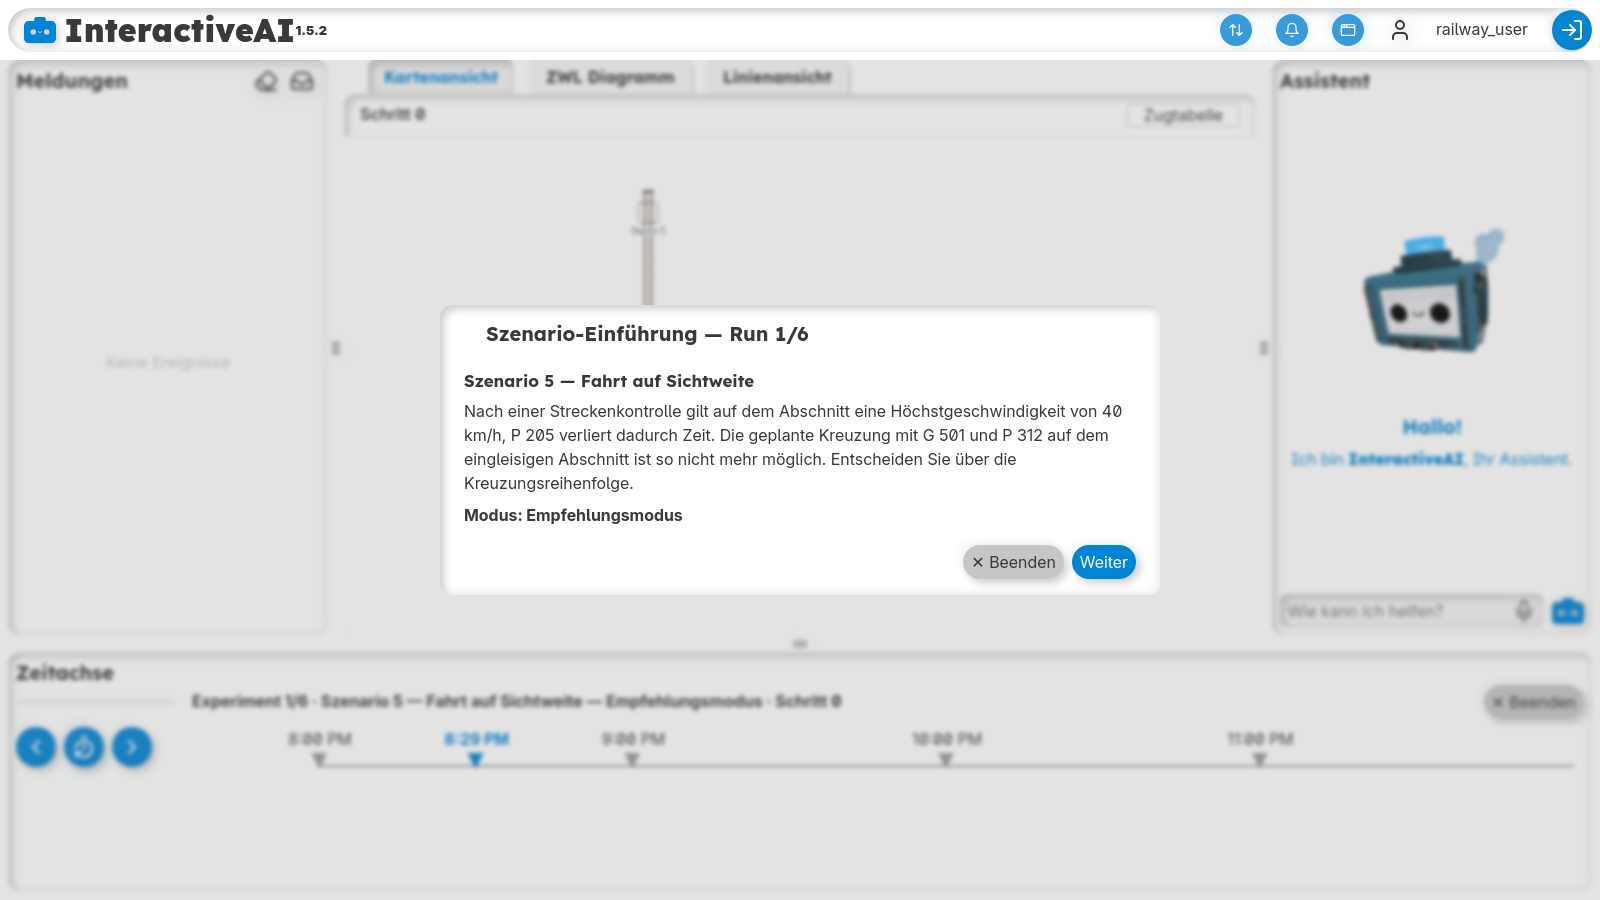
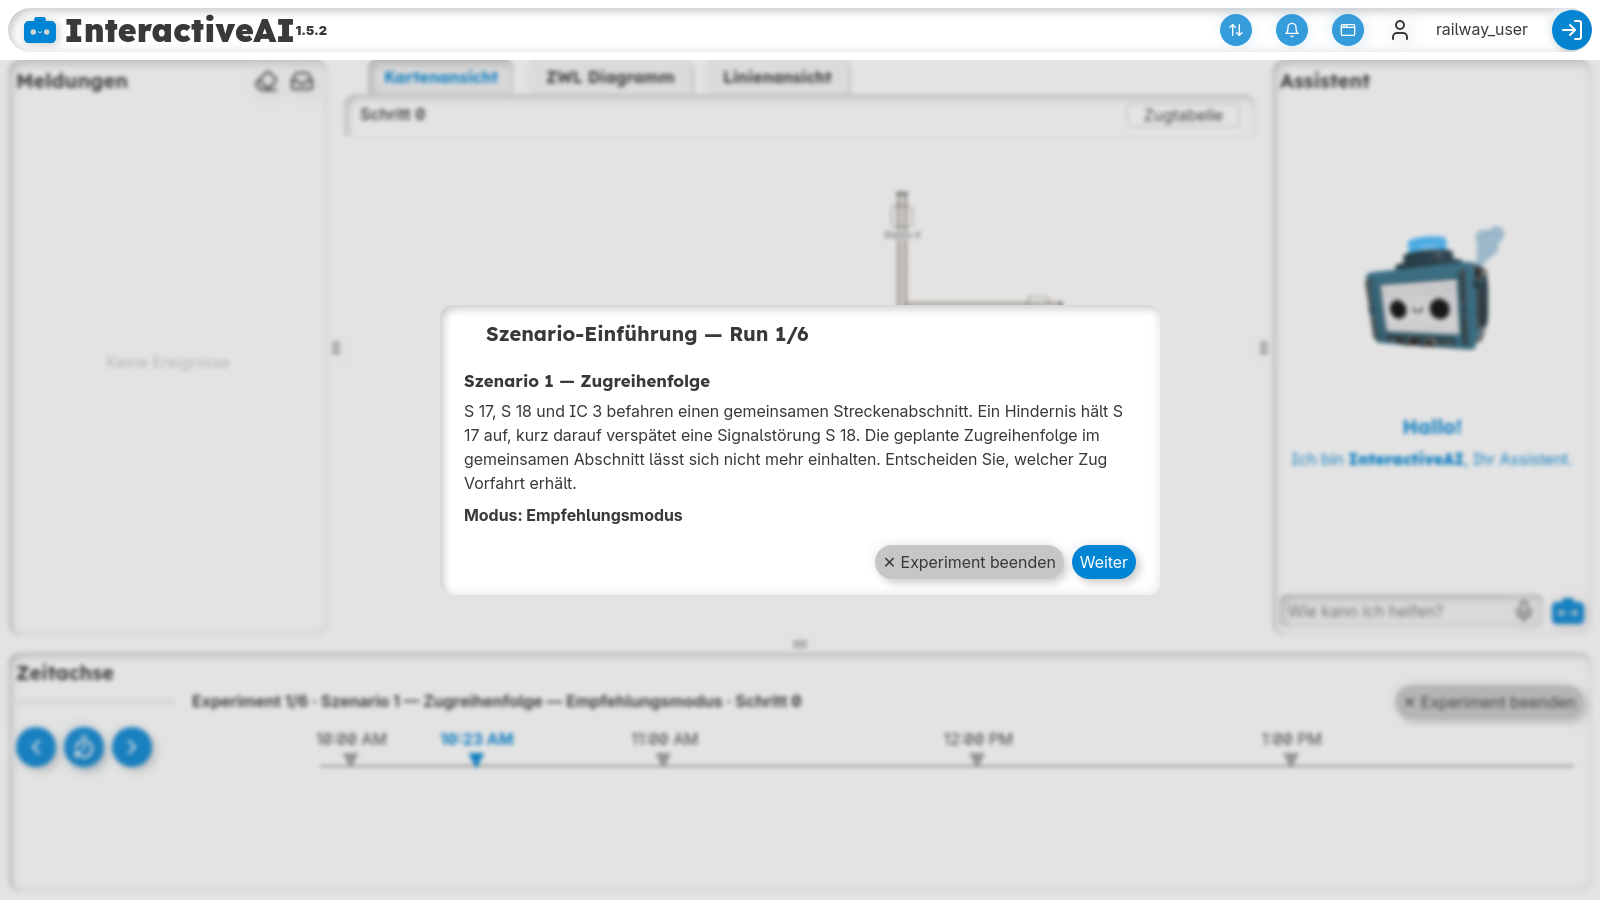
docs(plans): record the commits of S24 to S27 and refresh the introduction shot

diff --git a/docs/plans/railway-use-case.md b/docs/plans/railway-use-case.md
@@ -48,7 +48,9 @@ run and screenshotted without Docker.
   15 taken in the sandbox (Xvfb from conda-forge). Finding 7 (Werkzeug pin) fixed in S26
   (`b490b9c`); finding 6 (end the scenario or the Experiment) implemented as S25, shot 17. Open:
   finding 8 (S27, the consent dialog in two languages and a flaky click in the Cypress login),
-  analysed and decided as Q32 c), with a declared exception for two shared files.
+  analysed and decided as Q32 c), with a declared exception for two shared files. S24, S25, S26
+  and S27 committed (`43f9dff`, `2ffa188`, `b490b9c`, `9a68f92`); shot `10-intro` refreshed
+  ("✕ Experiment beenden"); the other shots of 00–14 show no changed view. Left: S23 (Q30).
 - **Base:** `main` at `600a1ce` (release 1.5.2).
 - **Inputs:**
   - the cleaned simulator: `railway_sim`'s simulator, cleaned and headless (Flatland
@@ -1741,10 +1743,10 @@ Each step adds its shots (§6) and commits them, and adds its new texts to Railw
 | S13 | - | The spec plays one scenario per mode from login to the end screen; all shots and the video refreshed; side-by-side comparison with `railway_sim.png` (remaining differences listed) in the Railway README; shot [`14-compare`](railway-use-case/shots/14-compare.png); all shots refreshed. | test | - | `test(railway): check the full run in both modes against the reference screenshot` | 4190e38 | T4 | S8–S12, S17 | - |
 | S14 | - | CI job; Cypress job only if fast enough. | ci | - | `ci(railway): run the simulator and Railway schema tests` | 6a4ee06 | T5, T6 | S1–S5 | - |
 | S15 | - | `Dockerfile`, compose (`restart: unless-stopped`, so the simulator runs from the deployment on, Q27 a), `RAILWAY_SIMU_UPSTREAM` on the server, `railway_user`'s perimeter in the seed files (no `loadTestConf.sh` after a restart; no participant users, Q11), ConfigMap location; README checklist with `deleteAllCards.sh` before a session; `README.md`, `frontend/README.md`, `docs/AIAgent_integration.md`-style references checked against D17. Done without the ConfigMap location and the server's `RAILWAY_SIMU_UPSTREAM` (S23). | feature | - | `feat(deploy): deploy the Railway simulator next to the platform` | c663b77 | D1, D10, D12, D13, D17, F27 | S4, S5 | - |
-| S24 | - | "Standalone-Modus" section with "Karte ansehen" in `ScenarioLoader.vue`'s start dialog, `standalone` in `loader.ts`, the geographic map in `Context.vue` while it is set, "Standalone-Modus · …" and "▶ Szenario-Loader" in `ScenarioProgress.vue` (Q31 d); 5 texts × 3 locales; `CHANGELOG.md`; a test switches to standalone mode, posts today's event and context and goes back; shot [`15-standalone`](railway-use-case/shots/15-standalone.png). | feature | - | `feat(railway): open the geographic map for an external simulation from the Szenario-Loader` | | F40 | S12 | - |
-| S25 | 6 | Experiment only: the progress bar's "✕ Beenden" becomes "✕ Experiment beenden" (so does the introductions' button), next to it "⏭ Szenario beenden" (while a run goes on, disabled until the next context) ends the current run early, and the start dialog shows the next introduction (the end screen after the last run). Simulator: `SessionRunner.end_run()` behind `POST /api/v1/session/end-run` marks the run `complete` (as `_on_complete()`, so `session.ended_at` after the last run) and posts the context; an open decision stays unanswered, its apply refused with 409 as any other; tests in `tests/test_integration.py`. Frontend: `endRun()` in `api.ts` + Vitest, both buttons in `ScenarioProgress.vue`, 2 texts × 3 locales; a single run keeps "✕ Beenden"; `CHANGELOG.md`; a test ends run 1 early; shot [`17-end-run`](railway-use-case/shots/17-end-run.png). | feature | low | `feat(railway): end the current scenario or the whole Experiment from the progress bar` | | F23 | S12 | - |
+| S24 | - | "Standalone-Modus" section with "Karte ansehen" in `ScenarioLoader.vue`'s start dialog, `standalone` in `loader.ts`, the geographic map in `Context.vue` while it is set, "Standalone-Modus · …" and "▶ Szenario-Loader" in `ScenarioProgress.vue` (Q31 d); 5 texts × 3 locales; `CHANGELOG.md`; a test switches to standalone mode, posts today's event and context and goes back; shot [`15-standalone`](railway-use-case/shots/15-standalone.png). | feature | - | `feat(railway): open the geographic map for an external simulation from the Szenario-Loader` | 43f9dff | F40 | S12 | - |
+| S25 | 6 | Experiment only: the progress bar's "✕ Beenden" becomes "✕ Experiment beenden" (so does the introductions' button), next to it "⏭ Szenario beenden" (while a run goes on, disabled until the next context) ends the current run early, and the start dialog shows the next introduction (the end screen after the last run). Simulator: `SessionRunner.end_run()` behind `POST /api/v1/session/end-run` marks the run `complete` (as `_on_complete()`, so `session.ended_at` after the last run) and posts the context; an open decision stays unanswered, its apply refused with 409 as any other; tests in `tests/test_integration.py`. Frontend: `endRun()` in `api.ts` + Vitest, both buttons in `ScenarioProgress.vue`, 2 texts × 3 locales; a single run keeps "✕ Beenden"; `CHANGELOG.md`; a test ends run 1 early; shot [`17-end-run`](railway-use-case/shots/17-end-run.png). | feature | low | `feat(railway): end the current scenario or the whole Experiment from the progress bar` | 2ffa188 | F23 | S12 | - |
 | S26 | 7 | `Werkzeug<3` in `usecases_examples/Railway/requirements.txt`, next to `Flask==2.3.2`; the simulator's tests green on a fresh install. | fix | medium | `fix(railway): pin Werkzeug below 3 for the simulator's Flask 2.3` | b490b9c | T5 | S14 | - |
-| S27 | 8 | `Login.vue` passes the consent question as a live translation, `stores/app.ts`'s `Modal.data` accepts it (declared exception, Q32 c); `login()` in `railway.cy.ts` answers in the browser's language once one dialog is left; `CHANGELOG.md` "Fixed"; mockups [`iai_consent_q32_before.png`](railway-use-case/iai_consent_q32_before.png), [`iai_consent_q32_after.png`](railway-use-case/iai_consent_q32_after.png). | fix | low | `fix(railway): show the consent question in the language of its buttons` | | F1, T4 | S7, S16 | - |
+| S27 | 8 | `Login.vue` passes the consent question as a live translation, `stores/app.ts`'s `Modal.data` accepts it (declared exception, Q32 c); `login()` in `railway.cy.ts` answers in the browser's language once one dialog is left; `CHANGELOG.md` "Fixed"; mockups [`iai_consent_q32_before.png`](railway-use-case/iai_consent_q32_before.png), [`iai_consent_q32_after.png`](railway-use-case/iai_consent_q32_after.png). | fix | low | `fix(railway): show the consent question in the language of its buttons` | 9a68f92 | F1, T4 | S7, S16 | - |
 | S23 | - | The `/railway-simu/` location in the ConfigMap's nginx key (pushed with `apply-nginx-conf.sh` after the frontend pod with the new `start-webui.sh` runs) and `RAILWAY_SIMU_UPSTREAM` on the frontend pod in `values.ovh.yaml`. Left out of S15: without a resolvable upstream the frontend's nginx does not start. | feature | - | `feat(deploy): route /railway-simu/ to the Railway simulator on Kubernetes` | | D1, D12 | S15 | Q30 |
 
 ### Phase 6: decisions settled with others ✅
@@ -1902,9 +1904,9 @@ GitHub yet; "resolved" in Source marks threads resolved on GitHub.
 | ✅❌ | 3 | [PR comment](https://github.com/ainetus/InteractiveAI/pull/34#discussion_r4522513695) | decision | medium | `docs/plans/railway-use-case.md:2035` (Q6): double-check the decision with the `railway_sim` author. Fixed in 091b3cc (S20): Confirmed 2026-11-11: six runs as `railway_sim`'s Experiment (S20). | `docs(plans): record the confirmation of Q6` |
 | ✅❌ | 4 | [PR comment](https://github.com/ainetus/InteractiveAI/pull/34#discussion_r4522846116) | decision | medium | `docs/plans/railway-use-case.md:2171` (Q8): double-check the decision with the `railway_sim` author; the two levels (train, then action) are not clear yet. Fixed in 091b3cc (S21): Confirmed 2026-11-11 as a) (S21); §1.5.2 notes that only "Vorfahrt" leads to an option in all six scenarios, so the second level is in effect fixed. | `docs(plans): record the confirmation of Q8` |
 | ✅❌ | 5 | [PR comment](https://github.com/ainetus/InteractiveAI/pull/34#discussion_r4522858147) | decision | medium | `docs/plans/railway-use-case.md:2246` (Q10): to decide with SystemX (the platform maintainers). Fixed in 091b3cc (S22): Decided 2026-11-11 as proposed: the simulator in its own compose next to the platform, as PowerGrid's, plus the k8s values; Q24 follows (S22). | `docs(plans): record the deployment decision of Q10` |
-| | 6 | conversation 2026-11-12 | feature | low | `frontend/src/entities/Railway/CAB/ScenarioProgress.vue:32`: in the Experiment, "✕ Beenden" (bottom right) ends the whole session but does not say so; it should read "✕ Experiment beenden", and an "⏭ Szenario beenden" should end the current run and move on to the next scenario. The simulator's `next_run()` (`usecases_examples/Railway/integration/loop.py:87`) refuses while a run is not complete, so ending a run needs a route of its own (S25). | `feat(railway): end the current scenario or the whole Experiment from the progress bar` |
+| ✅ | 6 | conversation 2026-11-12 | feature | low | `frontend/src/entities/Railway/CAB/ScenarioProgress.vue:32`: in the Experiment, "✕ Beenden" (bottom right) ends the whole session but does not say so; it should read "✕ Experiment beenden", and an "⏭ Szenario beenden" should end the current run and move on to the next scenario. The simulator's `next_run()` (`usecases_examples/Railway/integration/loop.py:87`) refuses while a run is not complete, so ending a run needs a route of its own (S25). Fixed in 2ffa188 (S25): `POST /api/v1/session/end-run`, "Szenario beenden" and "✕ Experiment beenden"; shot `10-intro` refreshed with the new label. | `feat(railway): end the current scenario or the whole Experiment from the progress bar` |
 | ✅ | 7 | sandbox run 2026-11-12 | fix | medium | `usecases_examples/Railway/requirements.txt:5`: `Flask==2.3.2` without a Werkzeug pin; a fresh install (CI's `pip install -r requirements.txt`, `.github/workflows/railway-ci.yml:44`) gets Werkzeug 3.x, and Flask 2.3's test client fails (`module 'werkzeug' has no attribute '__version__'`) in the 4 route tests of `tests/test_integration.py`. Not seen yet: the branch's CI runs wait for approval. Fixed in b490b9c (S26): `Werkzeug<3`; 82 tests green. | `fix(railway): pin Werkzeug below 3 for the simulator's Flask 2.3` |
-| | 8 | sandbox run 2026-11-12 | bug | low | `frontend/src/views/Login.vue:45`, `frontend/cypress/e2e/railway.cy.ts:23`: in a German browser the consent dialog shows the English question under German buttons ("Nein"/"Ja"), and Cypress' `login()` sometimes clicks a button that has just been replaced (first test after a cold start). Caused by this branch: Railway's German texts (S7) arrive while the dialog is open; on `main` the dialog stays English (Q32). | `fix(railway): show the consent question in the language of its buttons` |
+| ✅ | 8 | sandbox run 2026-11-12 | bug | low | `frontend/src/views/Login.vue:45`, `frontend/cypress/e2e/railway.cy.ts:23`: in a German browser the consent dialog shows the English question under German buttons ("Nein"/"Ja"), and Cypress' `login()` sometimes clicks a button that has just been replaced (first test after a cold start). Caused by this branch: Railway's German texts (S7) arrive while the dialog is open; on `main` the dialog stays English (Q32). Fixed in 9a68f92 (S27): the question as a live translation (declared exception), `login()` answers in the browser's language; 15 Cypress tests green. | `fix(railway): show the consent question in the language of its buttons` |
 
 - **Issue references:** the PR closes no issue (its description is empty), and the branch references
   none in the code.
